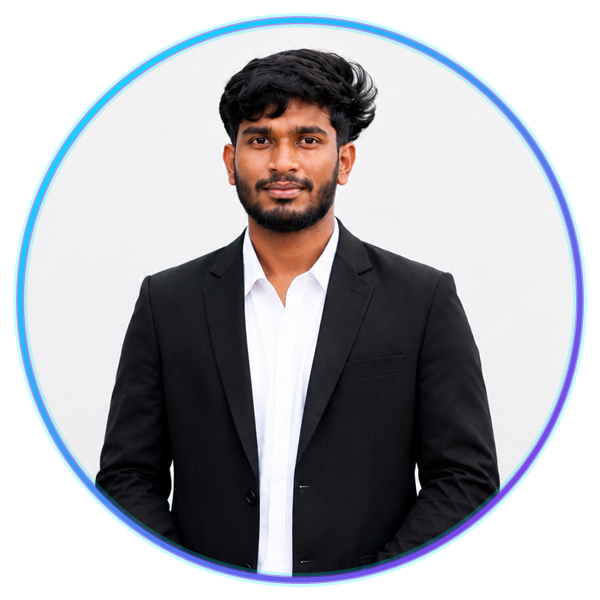
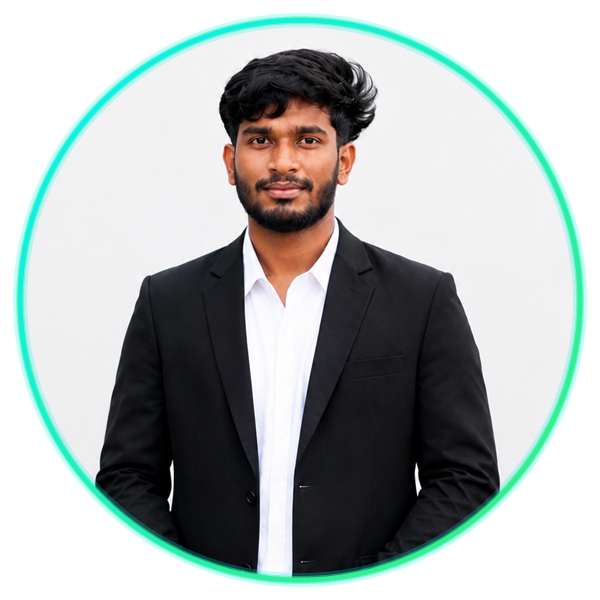
feat: switch to vibrant Cyber Emerald and Electric Cyan 3D color theme

diff --git a/README.md b/README.md
@@ -2,7 +2,7 @@
 
   <!-- 3D Header Banner -->
   <a href="https://github.com/dineshkumar7351">
-    <img src="https://capsule-render.vercel.app/api?type=waving&color=gradient&customColorList=2,14,23,30&height=200&section=header&text=Hi%20there,%20I'm%20Dinesh%20Kumar%20S%20👋&fontSize=36&fontAlignY=38&animation=twinkling&desc=Full-Stack%20Developer%20%7C%20Java%20Architect%20%7C%20Software%20Engineer&descSize=17&descAlignY=60&descAlign=50" width="100%" alt="Dinesh Kumar Header"/>
+    <img src="https://capsule-render.vercel.app/api?type=waving&color=gradient&customColorList=0,5,10,18,22&height=200&section=header&text=Hi%20there,%20I'm%20Dinesh%20Kumar%20S%20👋&fontSize=36&fontAlignY=38&animation=twinkling&desc=Full-Stack%20Developer%20%7C%20Java%20Architect%20%7C%20Software%20Engineer&descSize=17&descAlignY=60&descAlign=50" width="100%" alt="Dinesh Kumar Header"/>
   </a>
 
   <!-- 3D Avatar -->
@@ -149,7 +149,7 @@ core_philosophy: "Turn complex real-world challenges into elegant, high-performa
   </p>
 
   <!-- 3D Footer Banner -->
-  <img src="https://capsule-render.vercel.app/api?type=waving&color=gradient&customColorList=43,31,24,12,1&height=90&section=footer" width="100%" alt="Footer"/>
+  <img src="https://capsule-render.vercel.app/api?type=waving&color=gradient&customColorList=22,18,10,5,0&height=90&section=footer" width="100%" alt="Footer"/>
 
 </div>
 
